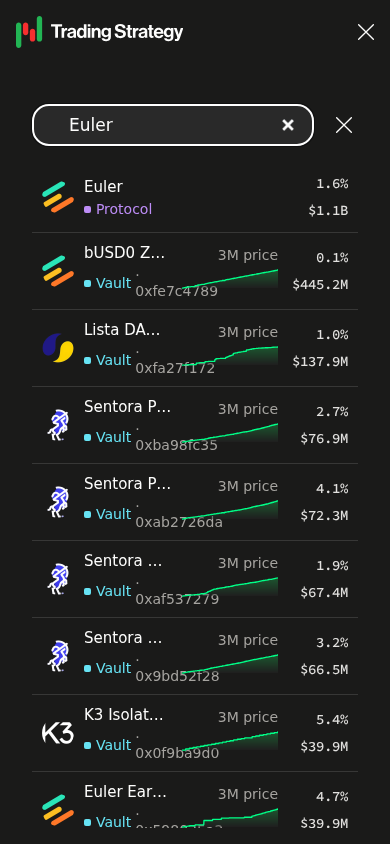
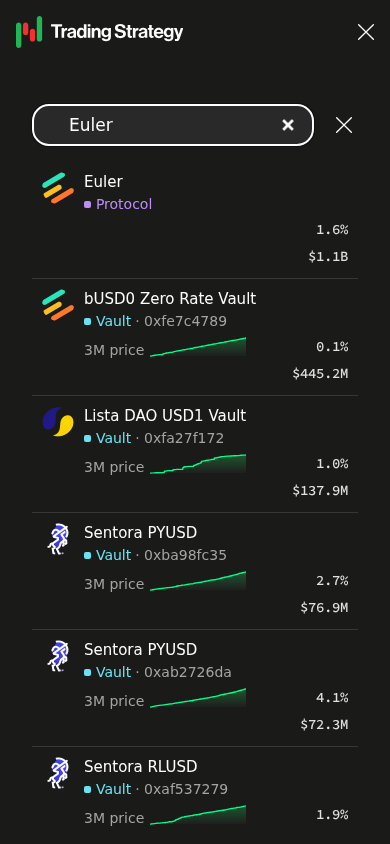
fix: stack mobile search result details

diff --git a/tests/integration/navigation.test.ts b/tests/integration/navigation.test.ts
@@ -1,0 +1,145 @@
+import { expect, test } from '@playwright/test';
+
+const searchName = 'Search vaults and DeFi entities';
+
+async function searchFromNavigation(page: import('@playwright/test').Page, query: string) {
+	const navToggle = page.getByRole('button', { name: 'Show navigation panel' });
+	let search = page.getByRole('combobox', { name: searchName });
+	if (await navToggle.isVisible()) {
+		await expect
+			.poll(async () => {
+				if ((await navToggle.getAttribute('aria-expanded')) !== 'true') await navToggle.click();
+				return navToggle.getAttribute('aria-expanded');
+			})
+			.toBe('true');
+		const navPanel = page.locator('.nav-panel nav');
+		await expect(navPanel).toHaveClass(/open/);
+		await navPanel.getByRole('button', { name: 'Search vaults' }).click();
+		const entitySearch = navPanel.getByTestId('entity-search');
+		await expect(entitySearch).toHaveClass(/open/);
+		search = entitySearch.getByRole('combobox', { name: searchName });
+	}
+
+	await expect(search).toBeVisible();
+	await search.focus();
+	await search.fill(query);
+	const results = page.getByTestId('entity-search-results');
+	await expect(results.getByRole('option').first()).toBeVisible();
+	return results;
+}
+
+test.describe('navigation entity search', () => {
+	test('shows a colour-coded protocol entity before matching vaults on iPad', async ({ page }) => {
+		await page.setViewportSize({ width: 768, height: 1024 });
+		await page.goto('/pricing');
+		const results = await searchFromNavigation(page, 'Yearn');
+
+		const firstResult = results.getByRole('option').first();
+		await expect(firstResult).toHaveAttribute('data-entity-type', 'protocol');
+		await expect(firstResult).toContainText('Yearn');
+		await expect(firstResult.locator('.entity-type')).toContainText('Protocol');
+		const [typeColour, markerColour] = await firstResult.locator('.entity-type').evaluate((element) => {
+			const marker = element.querySelector('.entity-type-marker')!;
+			return [getComputedStyle(element).color, getComputedStyle(marker).backgroundColor];
+		});
+		expect(markerColour).toBe(typeColour);
+	});
+
+	test('keeps the iPad landscape navigation menu aligned to the header edge', async ({ page }) => {
+		await page.setViewportSize({ width: 1024, height: 768 });
+		await page.goto('/pricing');
+
+		const menu = page.getByRole('button', { name: 'Show navigation panel' });
+		await expect(menu).toBeVisible();
+		const bounds = await menu.boundingBox();
+
+		expect(bounds).not.toBeNull();
+		expect(1024 - (bounds!.x + bounds!.width)).toBeLessThanOrEqual(32);
+	});
+
+	test('opens the complete search page when Enter is pressed without selecting a suggestion', async ({ page }) => {
+		await page.goto('/pricing');
+
+		const search = page.getByRole('combobox', { name: searchName });
+		await search.fill('Yearn');
+		await expect(page.getByRole('dialog', { name: 'Search' })).toBeVisible();
+		await search.press('Enter');
+
+		await expect(page).toHaveURL(/\/search\?q=Yearn$/);
+		await expect(page.getByRole('heading', { name: 'Search vaults' })).toBeVisible();
+	});
+
+	for (const { name, options } of [
+		{ name: 'desktop', options: { viewport: { width: 1440, height: 1000 }, isMobile: false, hasTouch: false } },
+		{ name: 'iPad landscape', options: { viewport: { width: 1024, height: 768 }, isMobile: true, hasTouch: true } },
+		{ name: 'iPhone', options: { viewport: { width: 375, height: 667 }, isMobile: true, hasTouch: true } }
+	]) {
+		test(`finds protocols and vaults through the rendered search on ${name}`, async ({ browser }) => {
+			const context = await browser.newContext(options);
+			const page = await context.newPage();
+			await page.goto('/pricing');
+
+			const protocolResults = await searchFromNavigation(page, 'Yearn');
+			await expect(protocolResults.getByRole('option').first()).toHaveAttribute('data-entity-type', 'protocol');
+			await expect(protocolResults.getByRole('option').first()).toContainText('Yearn');
+
+			const search = page.getByRole('combobox', { name: searchName });
+			await search.fill('Savings USDS');
+			const vaultResult = protocolResults
+				.locator('[role="option"][data-entity-type="vault"]', {
+					hasText: 'Savings USDS'
+				})
+				.first();
+			await expect(vaultResult).toBeVisible();
+
+			if (name === 'iPhone') {
+				const dialog = page.getByRole('dialog', { name: 'Search' });
+				const bounds = await dialog.boundingBox();
+				const vaultBounds = await vaultResult.boundingBox();
+				const vaultNameBounds = await vaultResult.locator('.result-main').boundingBox();
+				const vaultSparklineBounds = await vaultResult.locator('.result-sparkline').boundingBox();
+				const vaultMetricsBounds = await vaultResult.locator('.metrics').boundingBox();
+				expect(bounds).not.toBeNull();
+				expect(bounds!.x).toBeGreaterThanOrEqual(0);
+				expect(bounds!.x + bounds!.width).toBeLessThanOrEqual(375);
+				expect(bounds!.width).toBeGreaterThanOrEqual(343);
+				expect(vaultBounds).not.toBeNull();
+				expect(vaultNameBounds).not.toBeNull();
+				expect(vaultSparklineBounds).not.toBeNull();
+				expect(vaultMetricsBounds).not.toBeNull();
+				expect(vaultSparklineBounds!.y).toBeGreaterThan(vaultNameBounds!.y);
+				expect(vaultMetricsBounds!.y).toBeGreaterThan(vaultNameBounds!.y);
+				expect(await page.evaluate(() => document.documentElement.scrollWidth)).toBeLessThanOrEqual(375);
+			}
+
+			await context.close();
+		});
+	}
+
+	test('returns equivalent rendered entity results on desktop, tablet and mobile', async ({ browser }) => {
+		const viewports = [
+			{ name: 'desktop', viewport: { width: 1440, height: 1000 }, isMobile: false, hasTouch: false },
+			{ name: 'tablet', viewport: { width: 768, height: 1024 }, isMobile: true, hasTouch: true },
+			{ name: 'mobile', viewport: { width: 390, height: 844 }, isMobile: true, hasTouch: true }
+		];
+		const resultSets: string[][] = [];
+
+		for (const options of viewports) {
+			const context = await browser.newContext(options);
+			const page = await context.newPage();
+			await page.goto('/pricing');
+			const results = await searchFromNavigation(page, 'Yearn');
+			resultSets.push(
+				await results
+					.getByRole('option')
+					.evaluateAll((options) =>
+						options.map((option) => `${option.getAttribute('data-entity-type')}:${option.getAttribute('href')}`)
+					)
+			);
+			await context.close();
+		}
+
+		expect(resultSets[0]).toEqual(resultSets[1]);
+		expect(resultSets[1]).toEqual(resultSets[2]);
+	});
+});

diff --git a/src/lib/search/components/Search.svelte b/src/lib/search/components/Search.svelte
@@ -518,6 +518,29 @@ underlying vault JSON index private.
 			max-height: none;
 			margin-top: var(--space-md);
 		}
+		li a {
+			grid-template-columns: 2rem minmax(0, 1fr) max-content;
+			grid-template-areas:
+				'logo main main'
+				'. sparkline metrics';
+			align-items: start;
+			row-gap: var(--space-xs);
+		}
+		.logo-slot {
+			grid-area: logo;
+		}
+		.result-main {
+			grid-area: main;
+		}
+		.result-sparkline {
+			grid-area: sparkline;
+			display: flex;
+			align-items: center;
+			gap: var(--space-xs);
+		}
+		.metrics {
+			grid-area: metrics;
+		}
 	}
 
 	@media (--nav-expanded) {
@@ -531,9 +554,6 @@ underlying vault JSON index private.
 		}
 		li a {
 			grid-template-columns: 2rem minmax(0, 1fr) 7rem auto;
-		}
-		.mobile-search-row {
-			display: none;
 		}
 	}
 </style>
